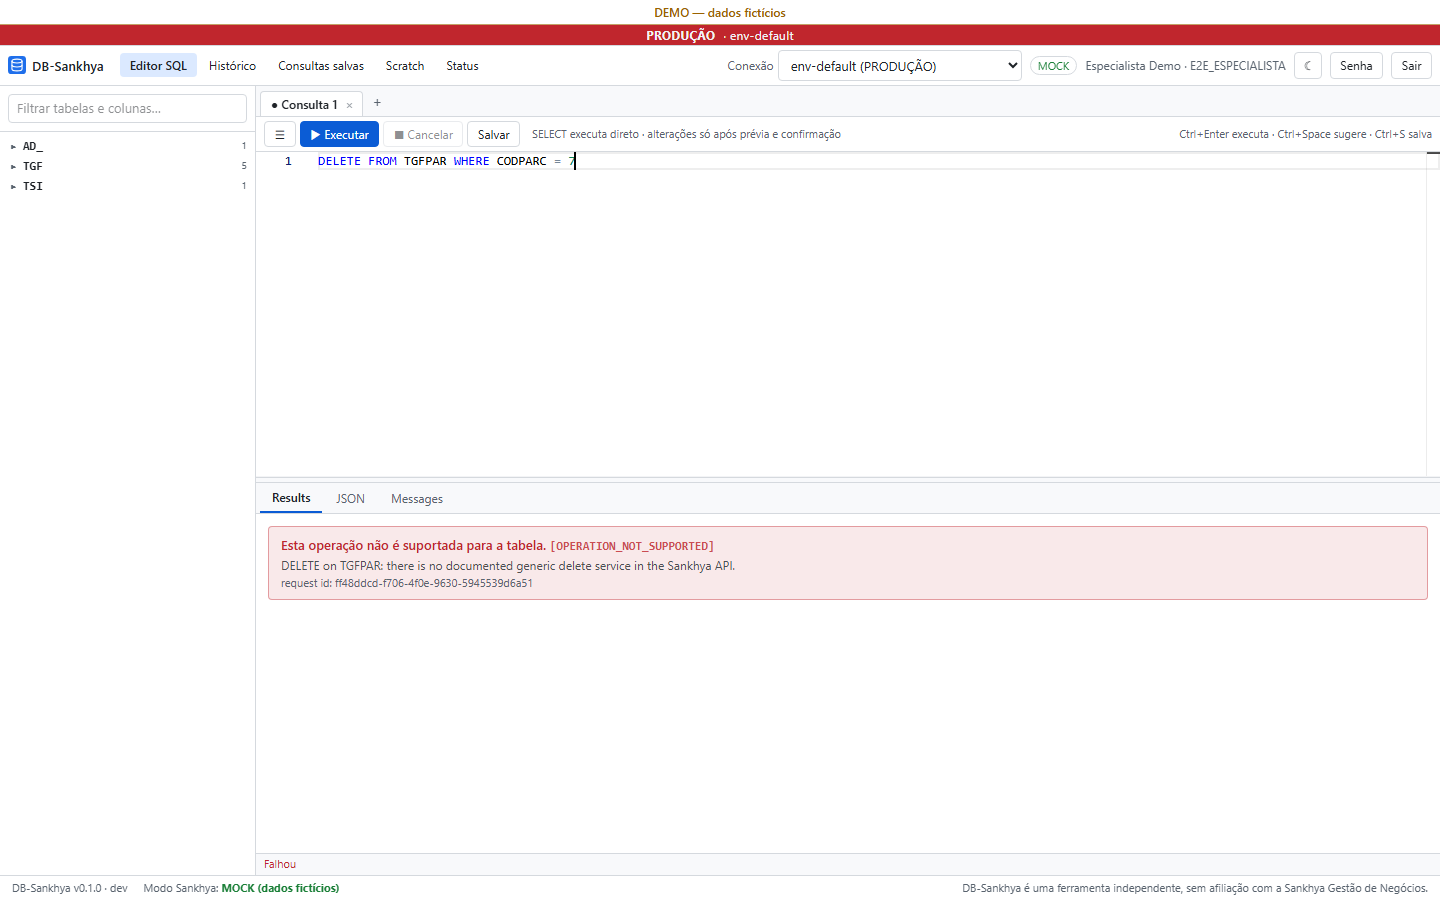
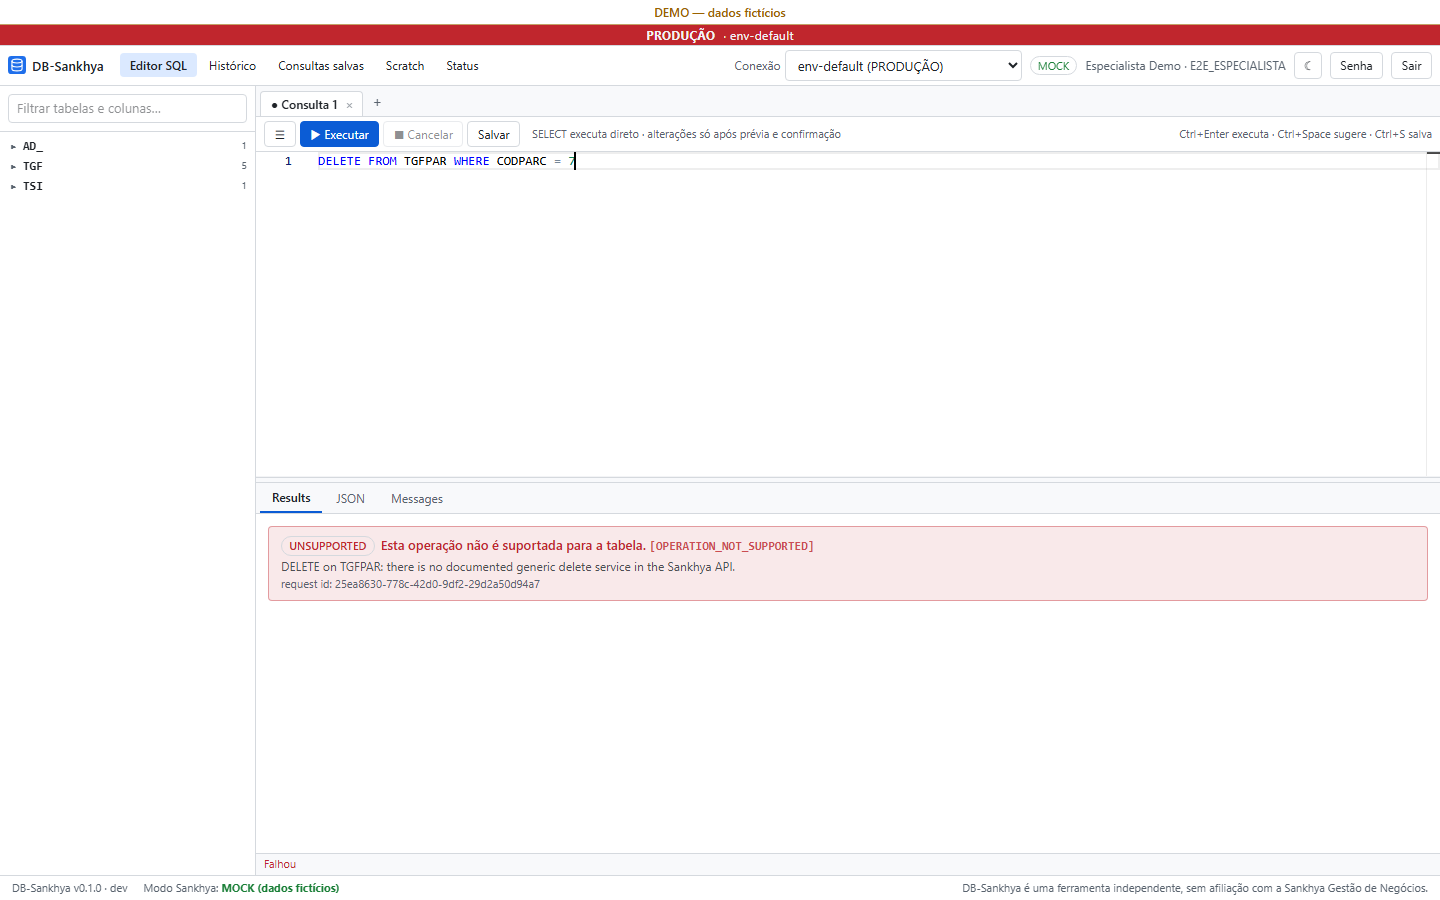
test(e2e): prove self-approval refusal and pin refusal codes
The four-eyes requester now holds APPROVAL.DECIDE through a test-only seeded role, so approving their own request is refused as self_approval and the row stays unchanged. The refused DELETE asserts the UNSUPPORTED badge on screen. DDL refusals pin SQL_UNSUPPORTED and RESOURCE_NOT_FOUND. SAFE_MODE is set explicitly in the e2e config. mutation.spec names the SAFE_MODE switch. The kill-switch execute fills any strong confirmation first. The bootstrap screenshot waits for the schema tree. The reserved CODPARC rows are listed in support.ts.

Changed region(s): [[0.1875, 0.5911, 0.5625, 0.6533], [0.5, 0.0622, 0.6562, 0.0933]]

diff --git a/e2e/tests/four-eyes.spec.ts b/e2e/tests/four-eyes.spec.ts
@@ -2,6 +2,7 @@ import { expect, test } from '@playwright/test';
 import type { BrowserContext, Page } from '@playwright/test';
 import {
   adminContext,
+  APPROVER_ROLE,
   call,
   Fixtures,
   nav,
@@ -16,6 +17,8 @@ import {
 
 // Four eyes: an operator plans an UPDATE that a policy marks as needing approval; it cannot run
 // until another person (the administrator) approves it. SANDBOX mock connection, fictitious data.
+// The operator holds APPROVAL.DECIDE too (test-only role seeded by start-server.mjs), so the
+// refusal of their own approval comes from the self-approval rule, not a missing permission.
 test.describe.configure({ mode: 'serial' });
 test.setTimeout(180_000);
 
@@ -35,6 +38,7 @@ let fixtures: Fixtures;
 let connectionId: string;
 let operatorPage: Page;
 let planId: string;
+let planToken: string;
 
 const currentName = async () =>
   (
@@ -57,7 +61,7 @@ test.beforeAll(async ({ browser }) => {
     connectionIds: [connectionId],
     limits: { requireApproval: true },
   });
-  await fixtures.user(OPERATOR.email, OPERATOR.name, OPERATOR.initial, ['OPERATOR']);
+  await fixtures.user(OPERATOR.email, OPERATOR.name, OPERATOR.initial, [APPROVER_ROLE]);
   operator = await userContext(browser, OPERATOR.email, OPERATOR.initial, OPERATOR.changed);
   operatorPage = await openApp(operator, OPERATOR.name);
 });
@@ -87,10 +91,12 @@ test('the operator plans an UPDATE that needs approval; executing it first write
   await page.keyboard.press('ControlOrMeta+Enter');
   const preview = (await (await previewResponse).json()) as {
     planId: string;
+    token: string;
     requires: { approval: boolean };
   };
   expect(preview.requires.approval).toBe(true);
   planId = preview.planId;
+  planToken = preview.token;
 
   const dialog = page.getByRole('dialog', { name: 'Prévia da alteração' });
   await expect(dialog.getByTestId('impact-environment')).toHaveText('SANDBOX');
@@ -105,12 +111,37 @@ test('the operator plans an UPDATE that needs approval; executing it first write
   await expect(dialog.getByTestId('approval-pending')).toContainText('Nada foi gravado');
   expect(await currentName()).toBe(before);
 
-  // The operator asks for approval; they cannot decide it themselves.
+  // The operator asks for approval.
+  const requested = page.waitForResponse(
+    (r) => r.request().method() === 'POST' && new URL(r.url()).pathname === '/api/approvals',
+  );
   await dialog.getByTestId('request-approval').click();
+  const requestRes = await requested;
+  expect(requestRes.status()).toBe(201);
+  const { approval } = (await requestRes.json()) as { approval: { id: string } };
   await expect(dialog.getByTestId('approval-requested')).toBeVisible();
   await shot(page, 'four-eyes-requested');
-  const own = await call(operator.request, 'GET', '/api/approvals/pending');
+
+  // They hold APPROVAL.DECIDE, yet cannot approve their own request.
+  const own = await call(operator.request, 'POST', `/api/approvals/${approval.id}/decision`, {
+    decision: 'APPROVE',
+  });
   expect(own.status()).toBe(403);
+  const ownErr = await refusal(own);
+  expect(ownErr.code).toBe('FORBIDDEN');
+  expect(ownErr.details?.reason).toBe('self_approval');
+  expect(await currentName()).toBe(before);
+
+  // The request is still pending: executing is still refused and writes nothing.
+  const still = await call(operator.request, 'POST', '/api/query/execute', {
+    planId,
+    token: planToken,
+    idempotencyKey: `e2e-still-pending-${STAMP}`,
+  });
+  const stillErr = await refusal(still);
+  expect(stillErr.code).toBe('FORBIDDEN');
+  expect(stillErr.details?.reason).toBe('approval_pending');
+  expect(await currentName()).toBe(before);
 });
 
 test('another person approves it on the Approvals page', async () => {

diff --git a/e2e/tests/lifecycle.spec.ts b/e2e/tests/lifecycle.spec.ts
@@ -18,7 +18,7 @@ import { SPECIALIST } from '../playwright.config';
 // The mutation lifecycle on the mock gateway (fictitious data): a CTE read, a refused DELETE,
 // a PRODUCTION UPDATE stopped by SAFE_MODE, a VERIFIED UPDATE on a SANDBOX connection, the plan
 // in the audit log and the kill switch. One admin session walks through it in order.
-// Each write uses its own partner row; mutation.spec.ts uses CODPARC = 1.
+// Each write uses its own partner row (see RESERVED_CODPARC in support.ts).
 test.describe.configure({ mode: 'serial' });
 test.setTimeout(180_000);
 
@@ -125,6 +125,8 @@ test('refuses a DELETE as UNSUPPORTED and deletes nothing', async ({ browser }) 
     const alert = p.getByRole('region', { name: 'Resultados' }).getByRole('alert');
     await expect(alert).toContainText('OPERATION_NOT_SUPPORTED');
     await expect(alert).toContainText('Esta operação não é suportada para a tabela.');
+    // The capability label itself is on screen, verbatim.
+    await expect(alert.getByTestId('capability-badge')).toHaveText('UNSUPPORTED');
     await expect(p.getByRole('dialog', { name: 'Prévia da alteração' })).toHaveCount(0);
     await shot(p, 'lifecycle-delete-unsupported');
   } finally {
@@ -259,10 +261,18 @@ test('the kill switch blocks the execute of a plan made while writes were on', a
     page,
     `UPDATE TGFPAR SET NOMEPARC = '${target}' WHERE CODPARC = ${ROW.killSwitch}`,
   );
-  const plan = (await preview.json()) as { execution: { available: boolean } };
+  const plan = (await preview.json()) as {
+    execution: { available: boolean };
+    requires: { strongConfirmation: string | null };
+  };
   expect(plan.execution.available).toBe(true);
   const dialog = page.getByRole('dialog', { name: 'Prévia da alteração' });
   await expect(dialog.getByTestId('impact-environment')).toHaveText('SANDBOX');
+  // Everything the execute needs is in place, so only the switch can refuse it.
+  if (plan.requires.strongConfirmation) {
+    await dialog.getByTestId('confirmation-input').fill(plan.requires.strongConfirmation);
+  }
+  await expect(dialog.getByTestId('mutation-execute')).toBeEnabled();
 
   // An administrator pulls the emergency switch from the Security page (another tab).
   const security = await admin.newPage();

diff --git a/e2e/tests/scratch-ddl.spec.ts b/e2e/tests/scratch-ddl.spec.ts
@@ -157,15 +157,18 @@ test('DDL: generates the custom-table artifacts for download and executes nothin
   const native = await call(specialist.request, 'POST', '/api/ddl/artifact', {
     sql: 'CREATE TABLE TGFPAR (ID INT PRIMARY KEY)',
   });
-  expect(native.status()).toBeGreaterThanOrEqual(400);
-  expect(native.status()).toBeLessThan(500);
+  // The native-table guard refuses it, before any policy is consulted (not a default-deny 403).
+  expect(native.status()).toBe(400);
+  const nativeErr = await refusal(native);
+  expect(nativeErr.code).toBe('SQL_UNSUPPORTED');
+  expect(nativeErr.message).toContain('Native DDL is forbidden');
+  expect(nativeErr.details?.table).toBe('TGFPAR');
 
   // Only an artifact was produced: the table does not exist in the Sankhya catalog.
   const read = await call(specialist.request, 'POST', '/api/query', {
     sql: `SELECT * FROM ${DDL_TABLE}`,
   });
-  expect(read.status()).toBeGreaterThanOrEqual(400);
-  expect(read.status()).toBeLessThan(500);
+  expect((await refusal(read)).code).toBe('RESOURCE_NOT_FOUND');
   const { items } = await ok<{ items: { action: string; resource: string | null }[] }>(
     admin.request,
     'GET',

diff --git a/e2e/tests/support.ts b/e2e/tests/support.ts
@@ -14,6 +14,20 @@ import type {
 } from '@playwright/test';
 import { BASE_URL, BOOTSTRAP, E2E_DIR, SPECIALIST } from '../playwright.config';
 
+/**
+ * Partner rows (TGFPAR.CODPARC) each file writes or refuses to write. All mock connections share
+ * one dataset and renamed rows stay renamed for the rest of the run, so a new spec picks a free
+ * value and adds it here.
+ */
+export const RESERVED_CODPARC = {
+  'mutation.spec.ts': [1],
+  'lifecycle.spec.ts': [7, 11, 12, 13],
+  'four-eyes.spec.ts': [21],
+} as const;
+
+/** Role seeded by start-server.mjs: OPERATOR plus APPROVAL.DECIDE (keep the key in sync). */
+export const APPROVER_ROLE = 'E2E_OPERADOR_APROVADOR';
+
 /** Same value explorer.spec.ts and mutation.spec.ts use for the changed bootstrap password. */
 export const CHANGED_PASSWORD = 'E2E-Changed#Pass2026';
 export const SHOTS = process.env.UPDATE_SCREENSHOTS === '1';

diff --git a/e2e/tests/mutation.spec.ts b/e2e/tests/mutation.spec.ts
@@ -137,11 +137,13 @@ async function previewAndRefuse(page: Page) {
   await dialog.getByTestId('confirmation-input').fill(phrase);
   await expect(execute).toBeEnabled();
 
-  // SAFE_MODE stays on in e2e: the server refuses the PRODUCTION write.
+  // SAFE_MODE stays on in e2e while the other write switches are on: the server refuses the
+  // PRODUCTION write, and its own message names SAFE_MODE as the switch that refused it.
   await execute.click();
   const refusal = dialog.getByTestId('mutation-error');
   await expect(refusal).toContainText('READ_ONLY_MODE');
   await expect(refusal).toContainText('somente leitura');
+  await expect(refusal).toContainText('Writes are disabled (SAFE_MODE).');
   await expect(execute).toBeDisabled();
   expect(calls.filter((c) => c === '/api/query/execute')).toHaveLength(1);
 

diff --git a/e2e/playwright.config.ts b/e2e/playwright.config.ts
@@ -87,10 +87,12 @@ export default defineConfig({
       // Every page shows the DEMO banner: the data is the mock gateway's fictitious dataset.
       DEMO_MODE: 'true',
       // The write switches are on so the lifecycle can reach a VERIFIED write on a SANDBOX
-      // connection (mock gateway only). SAFE_MODE keeps its default (true), so PRODUCTION
-      // writes are still refused, and the runtime kill switch can still turn every write off.
+      // connection (mock gateway only). SAFE_MODE is set on explicitly (a SAFE_MODE=false in the
+      // developer's shell must not leak in), so PRODUCTION writes are still refused, and the
+      // runtime kill switch can still turn every write off.
       GLOBAL_WRITE_ENABLED: 'true',
       WRITE_TO_SANKHYA: 'true',
+      SAFE_MODE: 'true',
     },
   },
 });

diff --git a/e2e/tests/bootstrap.spec.ts b/e2e/tests/bootstrap.spec.ts
@@ -134,6 +134,9 @@ test('the new administrator logs in through the UI', async ({ browser }) => {
         exact: true,
       }),
     ).toBeVisible();
+    // The schema tree has loaded from the mock gateway before the screenshot.
+    await expect(page.getByTestId('schema-group-TGF')).toBeVisible();
+    await expect(page.getByText('Carregando schema…')).toHaveCount(0);
     await shot(page, 'bootstrap-first-admin');
   } finally {
     await ctx.close();
